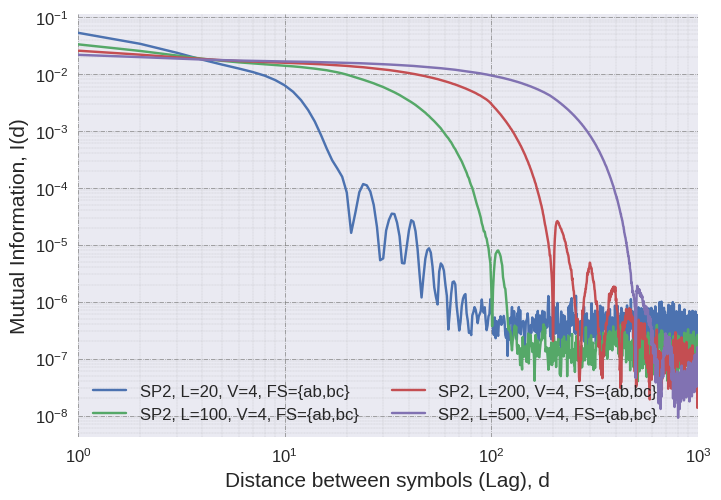
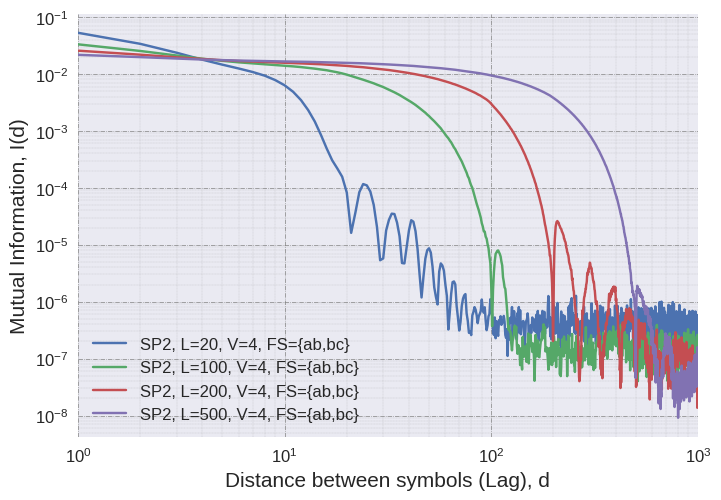
new image

Changed region(s): [[0.1221, 0.66, 0.5187, 0.84], [0.5492, 0.75, 0.9154, 0.84], [0.2746, 0.81, 0.3051, 0.84]]

diff --git a/paper_related/spk/plot_sp.py b/paper_related/spk/plot_sp.py
@@ -82,6 +82,6 @@ with plt.style.context(('seaborn')):
     print(ax.get_ylim())
     ax.set_xlabel('Distance between symbols (Lag), d', fontsize=15)
     ax.set_ylabel('Mutual Information, I(d)', fontsize=15)
-    lgd = ax.legend(loc='lower left', shadow=True, fancybox=True, ncol=2, numpoints=1, prop={'size': 12})
+    lgd = ax.legend(loc='lower left', shadow=True, fancybox=True, ncol=1, numpoints=1, prop={'size': 12})
     plt.savefig('spk_len', bbox_extra_artists=(lgd,), bbox_inches='tight')
     plt.show()
